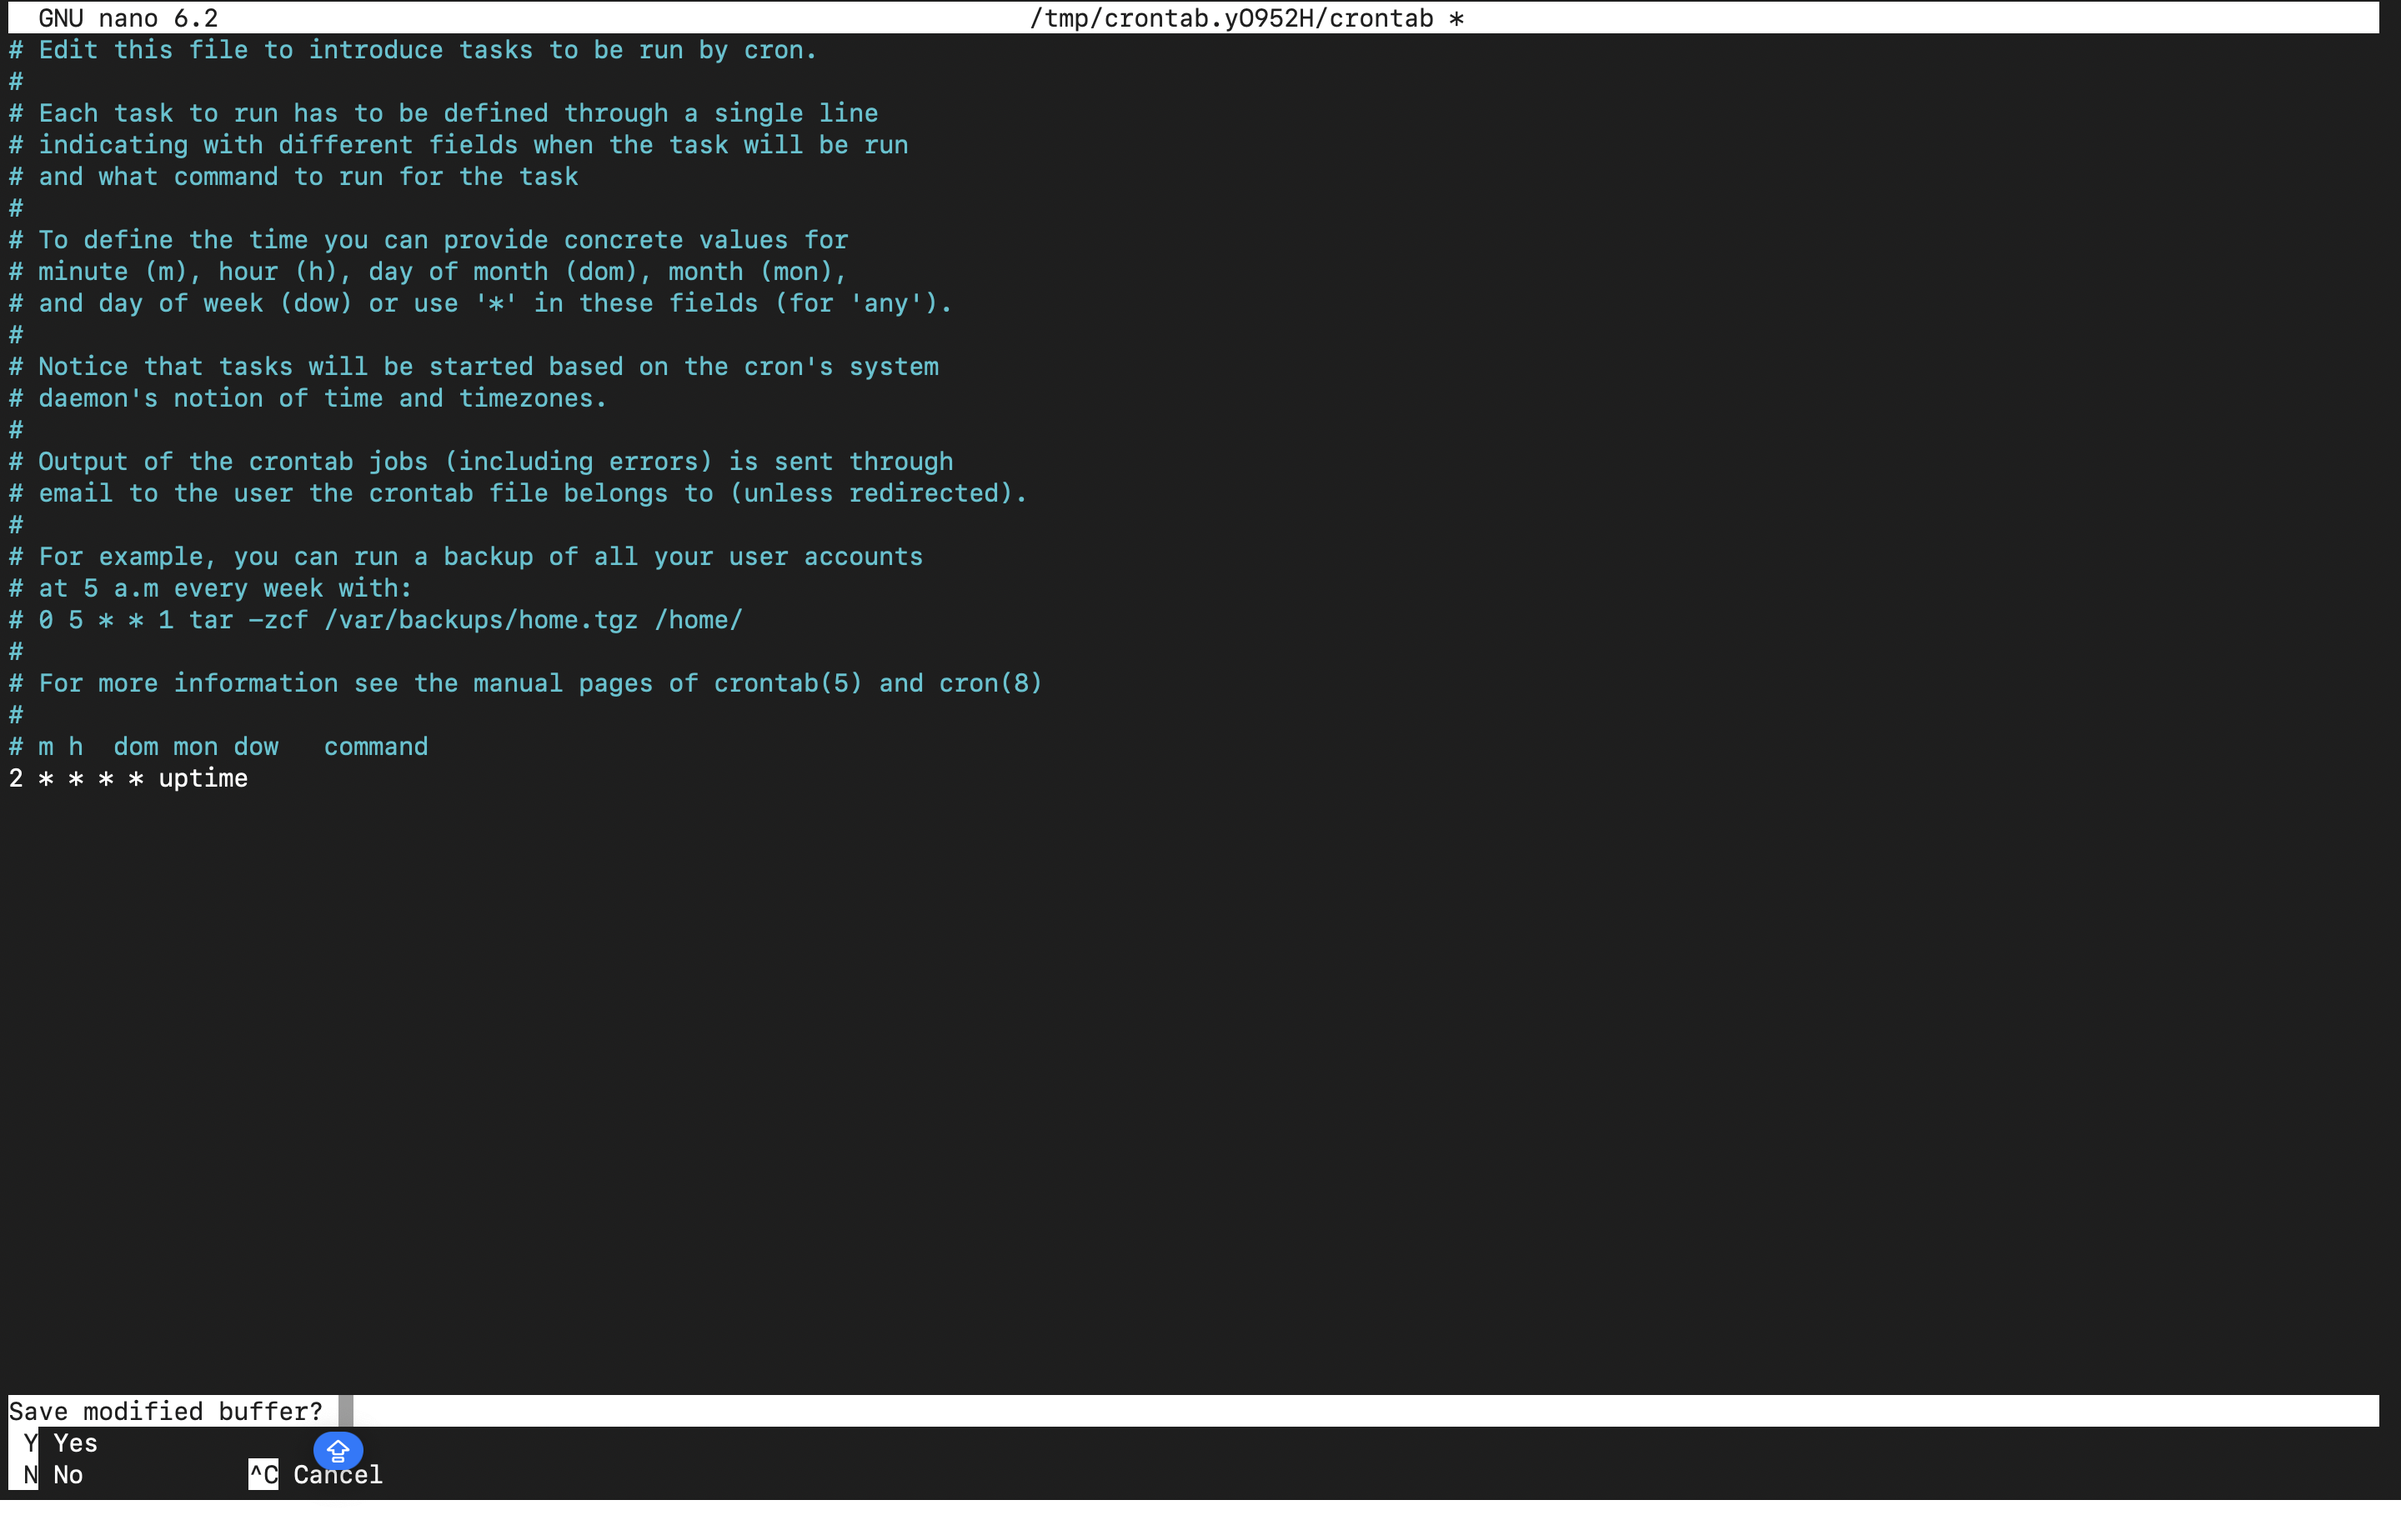
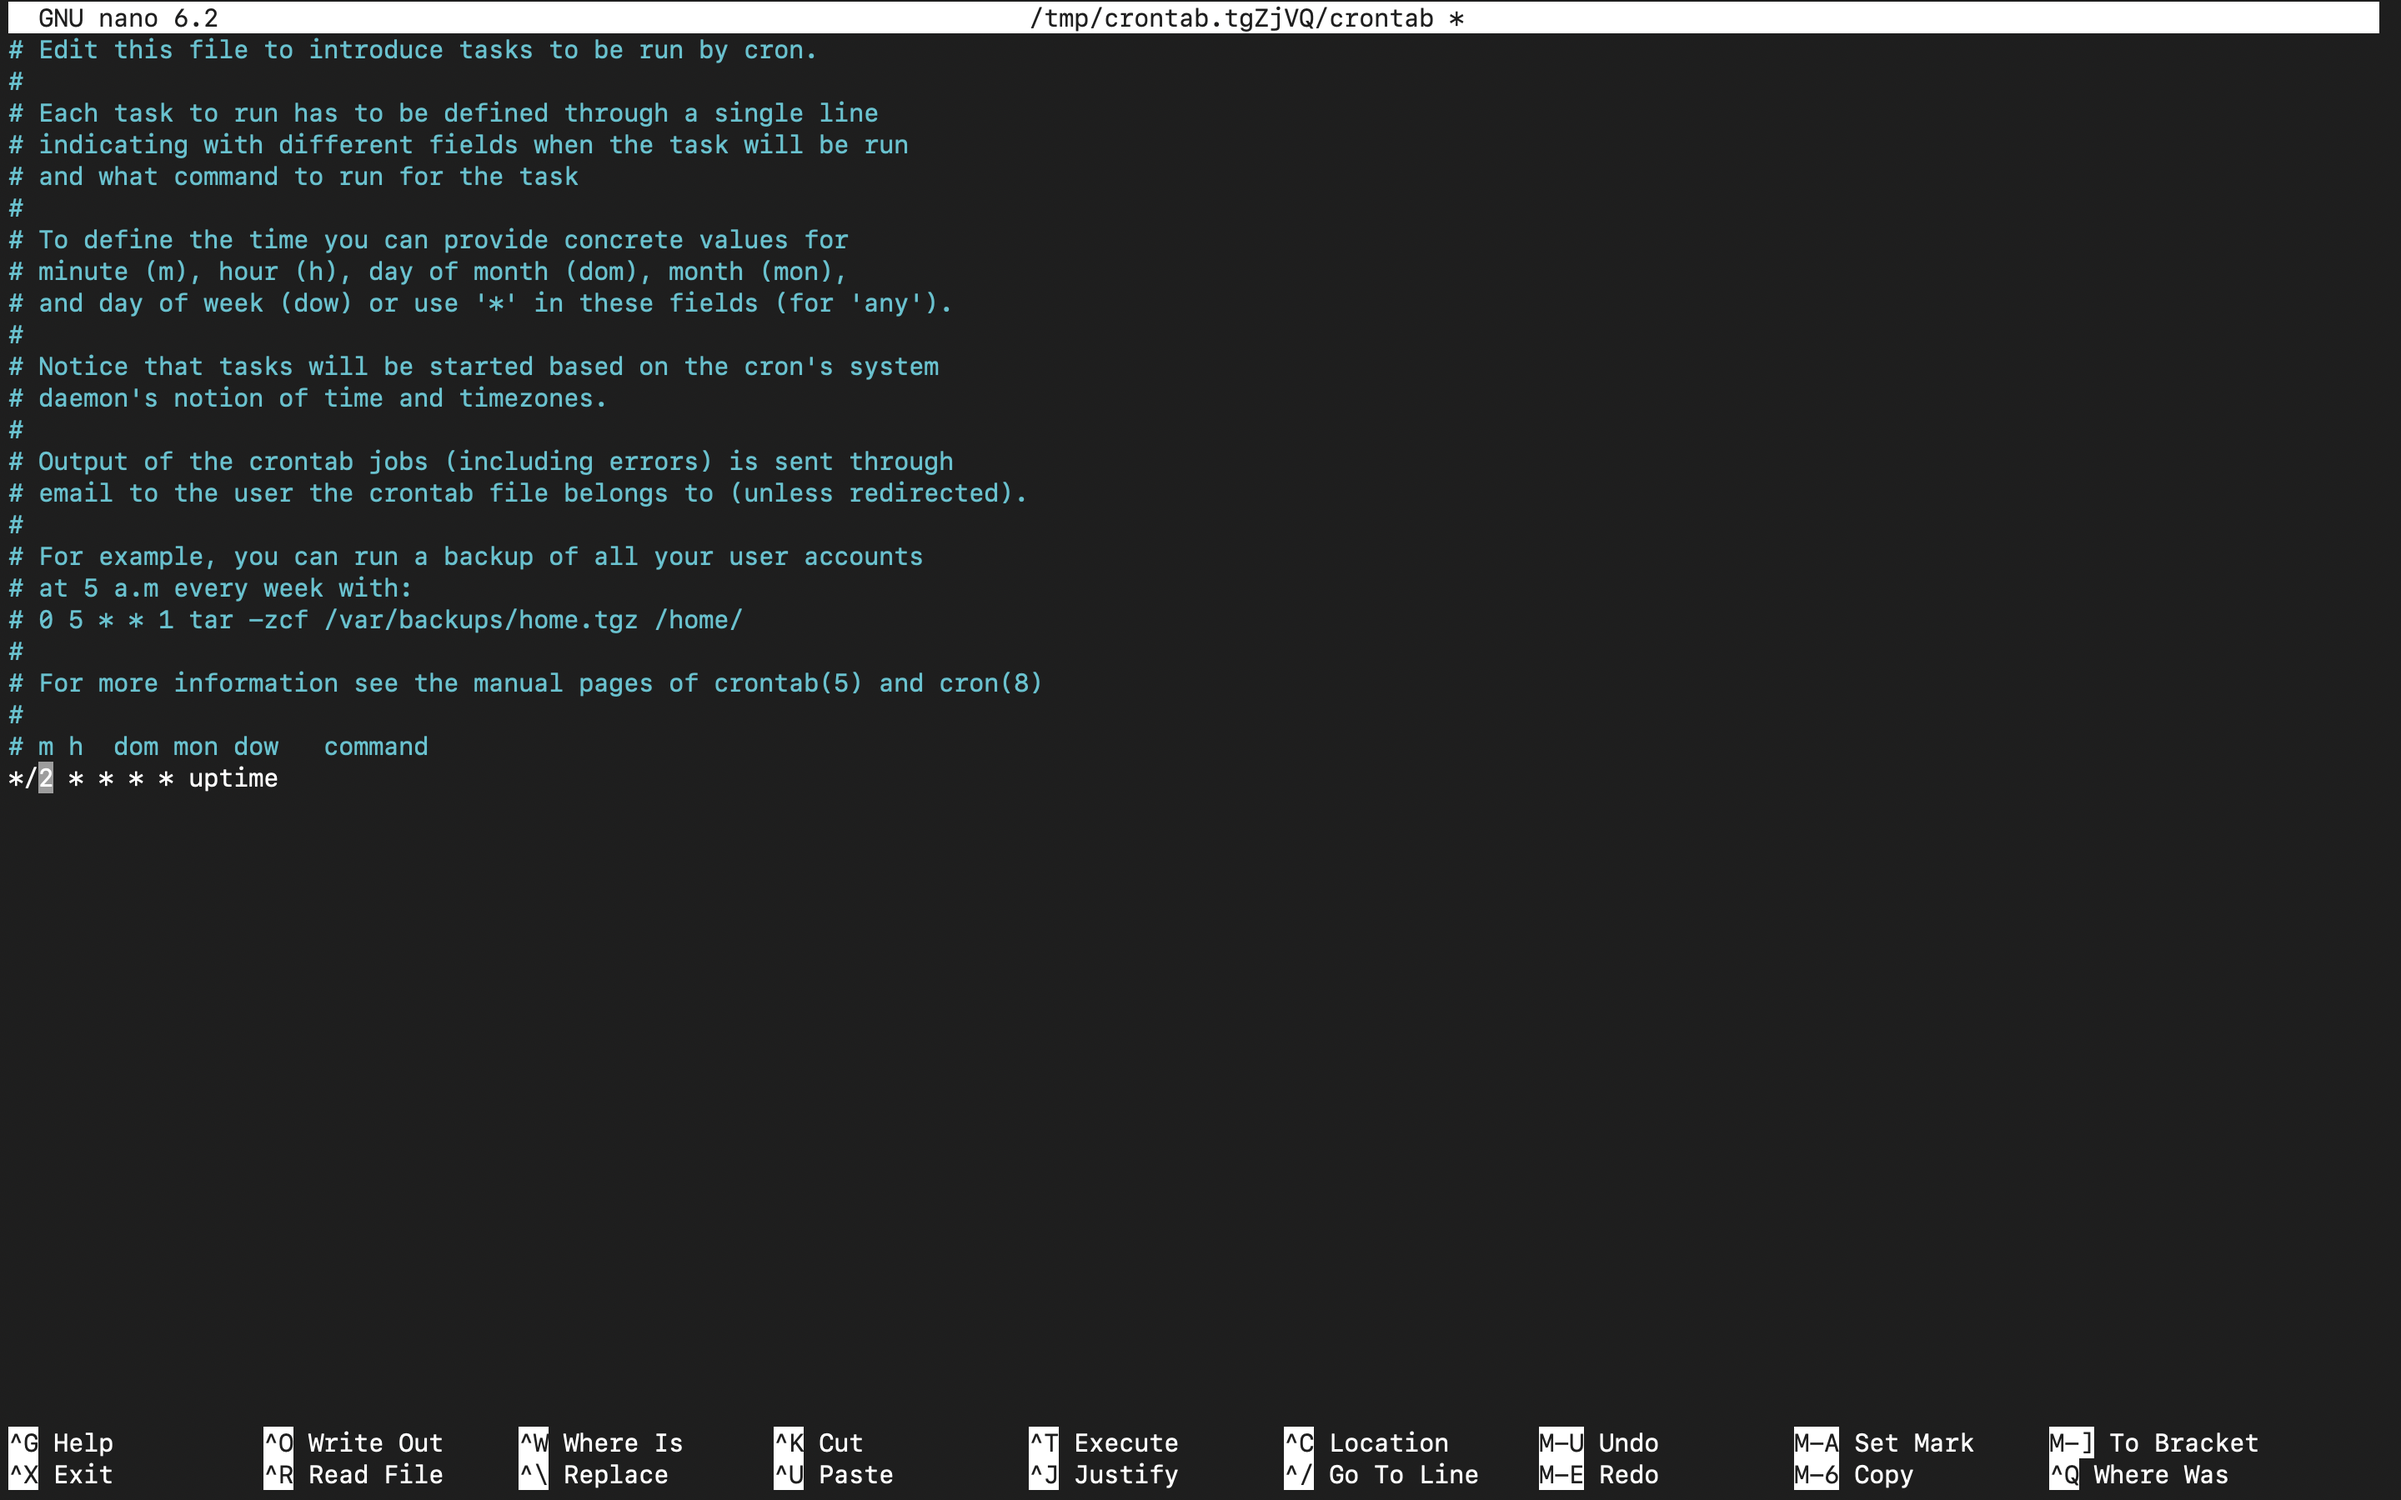
-

diff --git a/src/readme.md b/src/readme.md
@@ -422,6 +422,20 @@ cat /var/log/auth.log
 
 
 ## Part 15. Использование планировщика заданий CRON
+- `Используя планировщик задач, запустим команду uptime через каждые 2 минуты` <br>
+![A chto tut](./png/45.png)<br>
+
+- `Нашли в логах (минимум две в заданном временном диапазоне) о выполнении.` <br>
+![A chto tut](./png/46.png)<br>
+- `Вывели список задач`
+![A chto tut](./png/47.png)<br>
+
+
+
+
+
+
+
 
 
 
